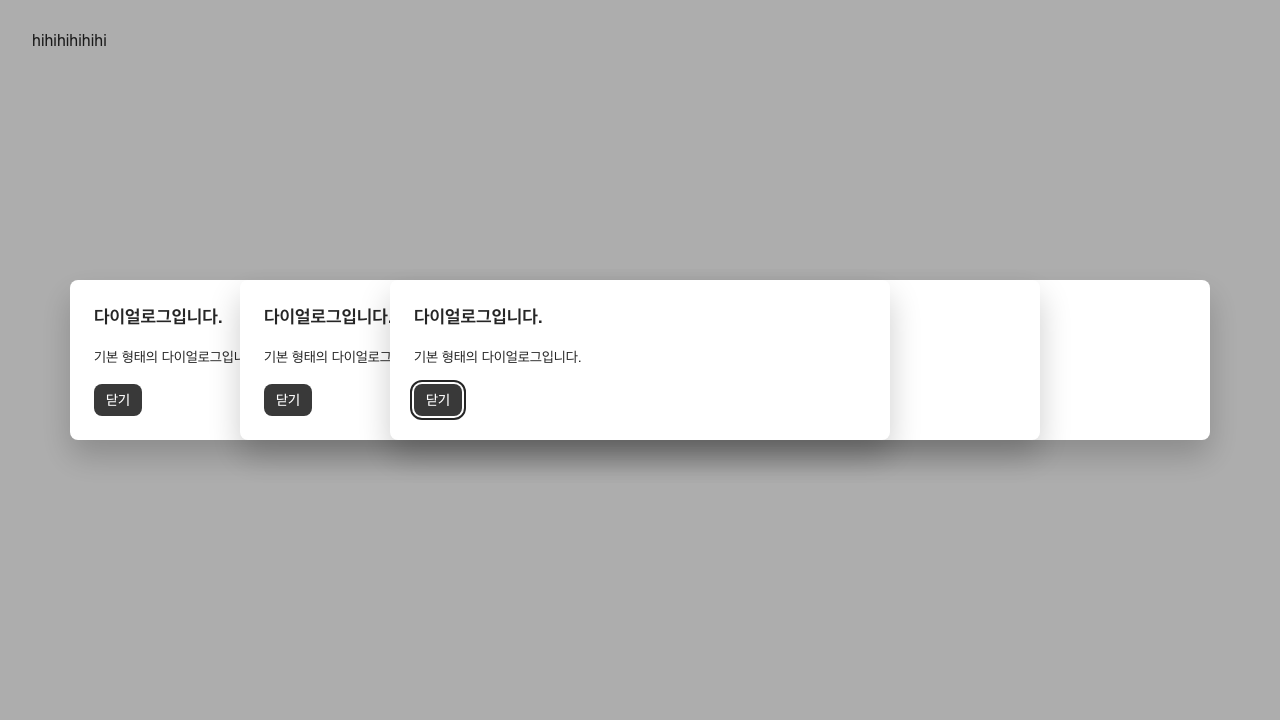
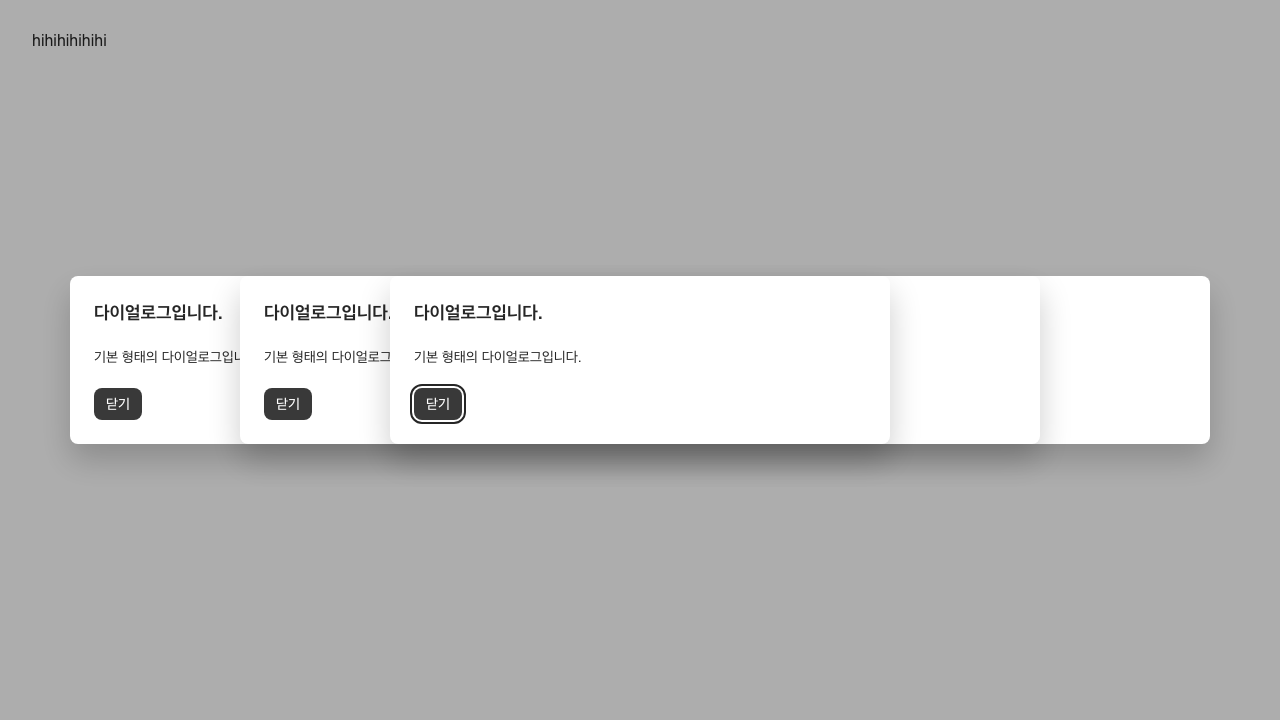
fix(dialog): use space-250 for section gaps per design
Header-Body and Body-Footer gaps are 20px in both core and composites designs.

diff --git a/packages/composites/src/components/dialog/dialog.tsx b/packages/composites/src/components/dialog/dialog.tsx
@@ -261,9 +261,7 @@ const Body = ({ $css: $cssProp, children, ...props }: DialogPrimitives.Body.Prop
 
     const $css = {
         maskImage: overflowed ? 'linear-gradient(to top, transparent 0, black 20px)' : '',
-        // Keep the Header gap as margin (outside the scroll area) instead of core's paddingTop,
-        // so it stays visible when the body scrolls.
-        marginTop: '$200',
+        marginTop: '$250',
         paddingTop: '$000',
         paddingBottom: overflowed ? '$250' : '$000',
         ...$cssProp,
@@ -290,7 +288,7 @@ const Footer = ({ action, assistive }: FooterProps) => {
             $css={{
                 display: 'grid',
                 gridTemplateAreas: '"assistive action"',
-                paddingTop: renderFooter ? '$200' : '$000',
+                paddingTop: renderFooter ? '$250' : '$000',
                 paddingBottom: '$300',
             }}
         >

diff --git a/packages/core/src/components/dialog/dialog.css.ts b/packages/core/src/components/dialog/dialog.css.ts
@@ -99,7 +99,7 @@ export const header = componentStyle({
 });
 
 export const body = componentStyle({
-    paddingTop: vars.size.space['200'],
+    paddingTop: vars.size.space['250'],
     paddingBottom: 0,
     paddingInline: vars.size.space['300'],
     width: '100%',
@@ -109,7 +109,7 @@ export const body = componentStyle({
 export const footer = componentStyle({
     display: 'flex',
     alignItems: 'center',
-    paddingTop: vars.size.space['200'],
+    paddingTop: vars.size.space['250'],
     paddingBottom: vars.size.space['300'],
     paddingInline: vars.size.space['300'],
     width: '100%',

diff --git a/.changeset/dialog-padding-design.md b/.changeset/dialog-padding-design.md
@@ -2,4 +2,4 @@
 '@vapor-ui/core': patch
 ---
 
-align `Dialog` header/body/footer padding with design — remove the fixed `Dialog.Header` height (56px) and use padding instead (top 24 / Header→Body 16 / Body→Footer 16 / bottom 24). Vertical spacing of existing dialogs will change.
+align `Dialog` header/body/footer padding with design — remove the fixed `Dialog.Header` height (56px) and use padding instead (top 24 / Header→Body 20 / Body→Footer 20 / bottom 24). Vertical spacing of existing dialogs will change.

diff --git a/.changeset/dialog-padding-composites.md b/.changeset/dialog-padding-composites.md
@@ -2,4 +2,4 @@
 '@vapor-ui/composites': patch
 ---
 
-reset `@vapor-ui/core` `Dialog.Body` top padding in `Dialog` so the Header→Body gap stays 16px (kept as margin outside the scroll area) instead of doubling to 32px
+align `Dialog` section spacing with design (Header→Body 20 / Body→Footer 20) and reset `@vapor-ui/core` `Dialog.Body` top padding so the Header→Body gap stays a margin outside the scroll area instead of doubling
